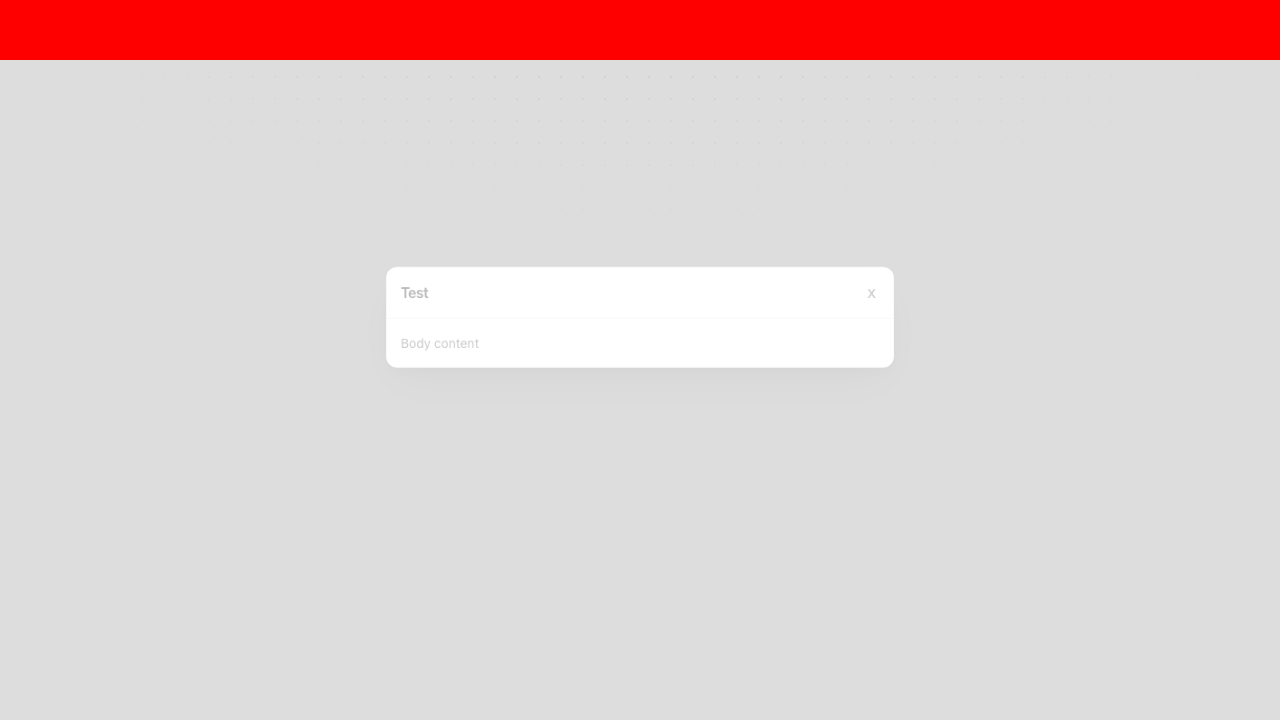
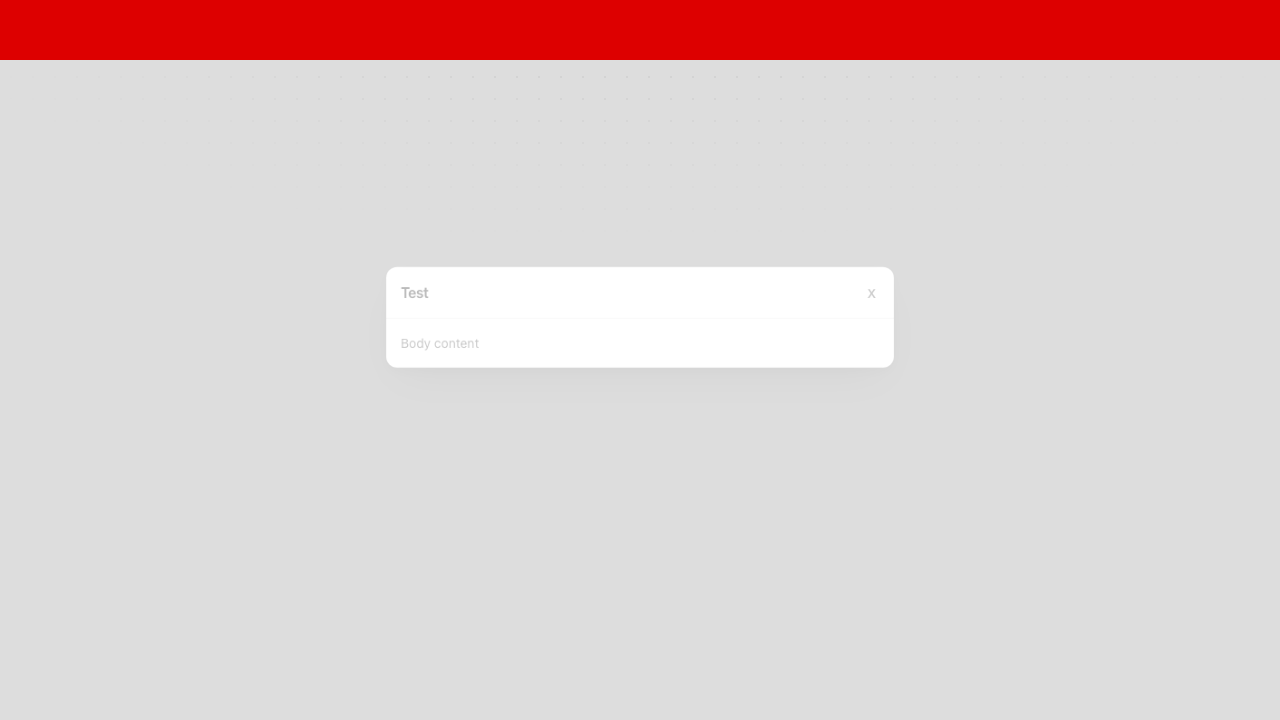
delete: remove temporary glass rim test HTML file and obsolete geolocation functions

Changed region(s): [[0.0, 0.0, 1.0, 0.0917]]

diff --git a/packages/ranuts/src/utils/behavior.ts b/packages/ranuts/src/utils/behavior.ts
@@ -1,5 +1,4 @@
 import { noop } from '@/utils/noop';
-import { isClient } from '@/utils/device';
 
 /**
  * @description: Listen for every click on the document, in the capture phase so a handler
@@ -15,151 +14,4 @@ export const handleClick = (hooks: (event: MouseEvent) => void = noop): (() => v
   const onClick = (event: Event): void => hooks(event as MouseEvent);
   document.addEventListener('click', onClick, true);
   return () => document.removeEventListener('click', onClick, true);
-};
-
-/**
- * @description: Read the device's latitude and longitude (prompts the user for permission)
- * @return {*}
- */
-export const getRegionalLatitudeAndLongitude = (): Promise<GeolocationPosition> => {
-  return new Promise((resolve, reject) => {
-    // eslint-disable-next-line n/no-unsupported-features/node-builtins
-    navigator.geolocation.getCurrentPosition(
-      function (position) {
-        resolve(position);
-      },
-      function (error) {
-        reject(error);
-        // error.code can be:
-        //   0: unknown error
-        //   1: permission denied
-        //   2: position unavailable (error response from location provider)
-        //   3: timed out
-      },
-    );
-  });
-};
-
-export const webglVendor = (): { vendor: string; renderer: string } | null => {
-  const glCanvas = document.createElement('canvas');
-  const gl = glCanvas.getContext('webgl2');
-  function getHardwareInfo(gl: WebGL2RenderingContext) {
-    const debugInfo = gl.getExtension('WEBGL_debug_renderer_info');
-    if (!debugInfo) {
-      return null;
-    }
-    const vendor = gl.getParameter(debugInfo.UNMASKED_VENDOR_WEBGL);
-    const renderer = gl.getParameter(debugInfo.UNMASKED_RENDERER_WEBGL);
-    return {
-      vendor: vendor,
-      renderer: renderer,
-    };
-  }
-  if (gl) {
-    return getHardwareInfo(gl);
-  }
-  return null;
-};
-
-export const canvasVendor = (): string | null => {
-  const outScreenCanvas = document.createElement('canvas');
-  const ctx = outScreenCanvas.getContext('2d');
-  const txt = 'BrowserLeaks,com <canvas> 1.0';
-  if (!ctx) return null;
-  ctx.textBaseline = 'top';
-  ctx.font = "14px 'Arial'";
-  ctx.textBaseline = 'alphabetic';
-  ctx.fillStyle = '#f60';
-  ctx.fillRect(125, 1, 62, 20);
-  ctx.fillStyle = '#069';
-  ctx.fillText(txt, 2, 15);
-  ctx.fillStyle = 'rgba(102, 204, 0, 0.7)';
-  ctx.fillText(txt, 4, 17);
-  const canvasImageData = outScreenCanvas.toDataURL();
-  return canvasImageData;
-};
-
-enum AudioCompressor {
-  THRESHOLD = 'threshold',
-  KNEE = 'knee',
-  RATIO = 'ratio',
-  REDUCTION = 'reduction',
-  ATTACK = 'attack',
-  RELEASE = 'release',
-}
-/**
- * @description: Audio fingerprint. 1. Generate an audio stream (triangle wave), run an FFT over it and hash the result with SHA. 2. Generate an audio stream (sine wave), run it through dynamic compression and hash with MD5.
- */
-export const audioVendor = (): Promise<string> => {
-  return new Promise((resolve, reject) => {
-    if (!isClient) reject('window is undefined');
-    const each = function (
-      obj: Array<[AudioCompressor, number]>,
-      iterator: (value: [AudioCompressor, number], index: number, array: Array<[AudioCompressor, number]>) => void,
-    ) {
-      if (Array.prototype.forEach && obj.forEach === Array.prototype.forEach) {
-        obj.forEach(iterator);
-      } else if (obj.length === +obj.length) {
-        for (let i = 0, l = obj.length; i < l; i++) {
-          iterator(obj[i], i, obj);
-        }
-      } else {
-        for (const key in obj) {
-          if (Object.prototype.hasOwnProperty.call(obj, key)) {
-            iterator(obj[key], Number(key), obj);
-          }
-        }
-      }
-    };
-    const AudioContext = window.OfflineAudioContext || window.webkitOfflineAudioContext;
-    const context = new AudioContext(1, 44100, 44100);
-    const oscillator = context.createOscillator();
-    oscillator.type = 'triangle';
-    oscillator.frequency.setValueAtTime(10000, context.currentTime);
-    const compressor = context.createDynamicsCompressor();
-    each(
-      [
-        [AudioCompressor.THRESHOLD, -50],
-        [AudioCompressor.KNEE, 40],
-        [AudioCompressor.RATIO, 12],
-        [AudioCompressor.REDUCTION, -20],
-        [AudioCompressor.ATTACK, 0],
-        [AudioCompressor.RELEASE, 0.25],
-      ],
-      function (item: [AudioCompressor, number]) {
-        if (compressor[item[0]] && typeof compressor[item[0]] !== 'number') {
-          const { setValueAtTime } = compressor[item[0]] as AudioParam;
-          setValueAtTime(item[1], context.currentTime);
-        }
-      },
-    );
-    oscillator.connect(compressor);
-    compressor.connect(context.destination);
-    oscillator.start(0);
-    context.startRendering();
-    const audioTimeoutId = setTimeout(function () {
-      context.oncomplete = () => {};
-      reject('audioTimeout');
-      return 'audioTimeout';
-    }, 100);
-    context.oncomplete = (event) => {
-      try {
-        clearTimeout(audioTimeoutId);
-        const result = event.renderedBuffer
-          .getChannelData(0)
-          .slice(4500, 5000)
-          .reduce(function (acc, val) {
-            return acc + Math.abs(val);
-          }, 0)
-          .toString();
-        oscillator.disconnect();
-        compressor.disconnect();
-        resolve(result);
-        return result;
-      } catch (error) {
-        reject(error);
-        return;
-      }
-    };
-  });
 };

diff --git a/packages/ranui/test/e2e/repro_modal_segmented.spec.ts b/packages/ranui/test/e2e/repro_modal_segmented.spec.ts
@@ -21,7 +21,7 @@ test('modal mask is not clipped by page chrome mid-close-fade', async ({ page })
       body { margin: 0; }
       .nav { position: fixed; top: 0; left: 0; right: 0; height: 60px; background: red; z-index: 30; }
       .wrap { isolation: isolate; }
-      .wrap:has(r-modal[open]) { position: relative; z-index: 100; }
+      .wrap:has(r-modal[open]), .wrap:has(r-modal[closing]) { position: relative; z-index: 100; }
     `;
     document.head.appendChild(style);
     const nav = document.createElement('div');
@@ -53,6 +53,7 @@ test('modal mask is not clipped by page chrome mid-close-fade', async ({ page })
     return { tag: el?.tagName, cls: (el as HTMLElement)?.className };
   });
   console.log('element at nav position mid-close (120ms in):', JSON.stringify(pixel));
+  expect(pixel.cls).not.toBe('nav');
 
   await page.screenshot({ path: 'repro-modal-midclose-120.png' });
 
@@ -62,6 +63,7 @@ test('modal mask is not clipped by page chrome mid-close-fade', async ({ page })
     return { tag: el?.tagName, cls: (el as HTMLElement)?.className };
   });
   console.log('element at nav position mid-close (170ms in):', JSON.stringify(pixel2));
+  expect(pixel2.cls).not.toBe('nav');
   await page.screenshot({ path: 'repro-modal-midclose-170.png' });
 
   await page.waitForTimeout(400);

diff --git a/packages/ranuts/src/utils/obj.ts b/packages/ranuts/src/utils/obj.ts
@@ -162,42 +162,8 @@ export const mergeExports = (obj: Record<string, string>, exports: Record<string
 };
 
 /**
- * @description: Define a property on the global object
- * @param {string} name
- * @param {string} value
- * @return {*}
- */
-export const setAttributeByGlobal = (name: string, value: unknown): void => {
-  if (typeof window !== 'undefined') {
-    window[name as any] = value as any;
-  }
-  if (typeof global !== 'undefined') {
-    // @ts-expect-error global
-    global[name as any as keyof typeof global] = value as any;
-  }
-};
-
-/**
  * Deep-compare two values, in the manner of Lodash's isEqual.
  */
-
-/**
- * Whether two primitives are the same value, handling the special cases NaN and -0/+0.
- */
-export function sameValueZero(x: any, y: any): boolean {
-  // NaN
-  if (x === x ? y !== y : y === y) {
-    return false;
-  }
-
-  // -0 vs +0
-  if (x === 0 && y === 0) {
-    return 1 / x === 1 / y;
-  }
-
-  // Ordinary primitive comparison
-  return x === y;
-}
 
 /**
  * Whether the value is object-like
